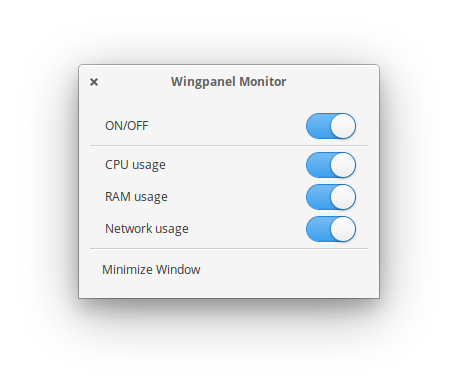
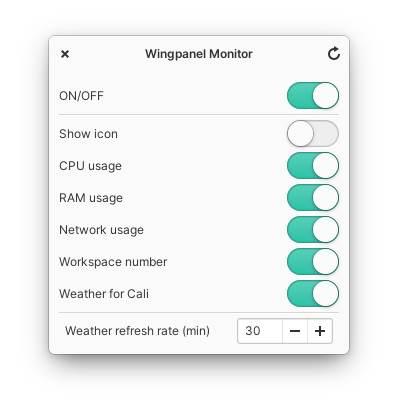
Full elementary odin 6.0 support (#26)
* odin compatibility

* remove deprecated widgets

* remove deprecation warnings

* fix: values initialization and visual spaces

* remove vala lint warning

* feat: round corners with libhandy

* Add Handy Header Bar

* fix github workflows

* remove HERA support

* update screenshots

Changed region(s): [[0.0905, 0.0614, 0.9045, 0.89]]

diff --git a/README.md b/README.md
@@ -22,20 +22,16 @@ libgtk-3-dev
 libwingpanel-3.0-dev
 libgeoclue-2-dev
 libgweather-3-dev
+libhandy-1-dev 
 meson
 valac
 ```
 
 You can install them: 
 
-- Version Hera (elementary 5.x.x):
+- elementary Odin 6.x.x:
 ```bash
-sudo apt install libgtop2-dev libgranite-dev libgtk-3-dev libwingpanel-2.0-dev meson valac libgeoclue-2-dev libgweather-3-dev
-```
-
-- version Odin (elementary 6.x.x):
-```bash
-sudo apt install libgtop2-dev libgranite-dev libgtk-3-dev libwingpanel-3.0-dev meson valac libgeoclue-2-dev libgweather-3-dev
+sudo apt install libgtop2-dev libgranite-dev libgtk-3-dev libwingpanel-3.0-dev meson valac libgeoclue-2-dev libgweather-3-dev libhandy-1-dev 
 ```
 Run `meson` to configure the build environment and then `ninja` to build
 
